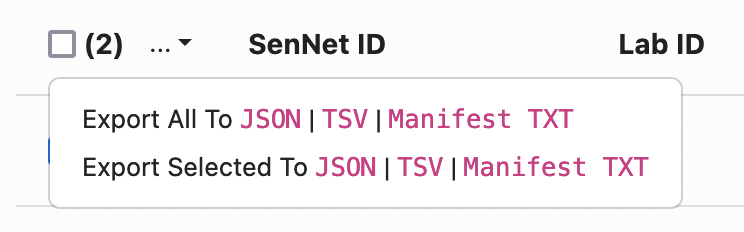
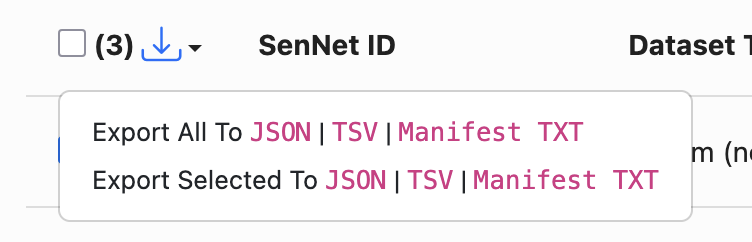
Updatng image for CLT

diff --git a/docs/libraries/clt/index.md b/docs/libraries/clt/index.md
@@ -31,7 +31,7 @@ SNT378.HDGT.837 /extras             #download the extras directory from dataset 
 
 Manifest files can be created from the home page of
 the [Data Sharing Portal](https://data.sennetconsortium.org/search?size=n_10000_n&filters%5B0%5D%5Bfield%5D=entity_type&filters%5B0%5D%5Bvalues%5D%5B0%5D=Dataset&filters%5B0%5D%5Btype%5D=any&sort%5B0%5D%5Bfield%5D=last_modified_timestamp&sort%5B0%5D%5Bdirection%5D=desc)
-when `Dataset` is selected as a filter. Select the checkboxes next to the datasets of interest and click the "..." button
+when `Dataset` is selected as a filter. Select the checkboxes next to the datasets of interest and click the download icon
 at the top left of the table.<br>
 ![Creating manifest](../../imgs/manifest-create.png){: .clt-img }
 
